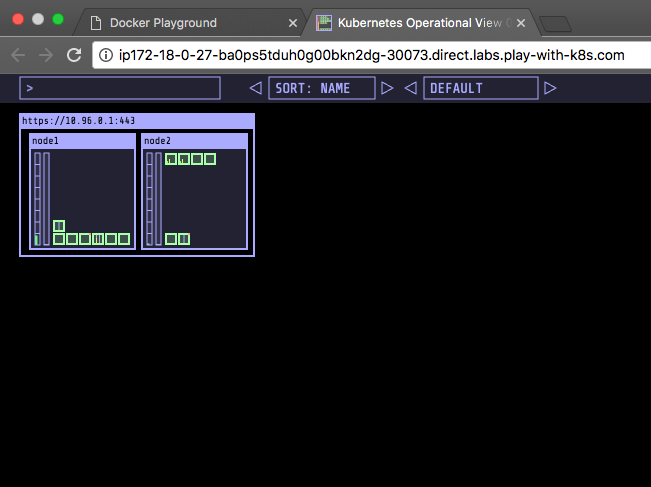
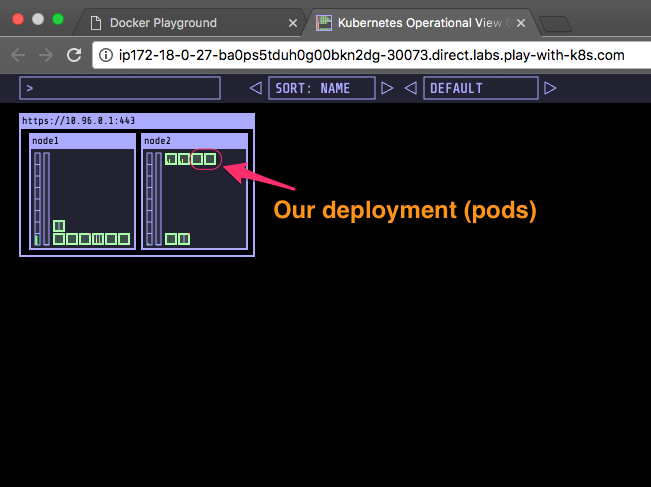
kube-visualizer doc completed

Changed region(s): [[0.3072, 0.3388, 0.8295, 0.462], [0.3072, 0.2772, 0.3379, 0.308], [0.2765, 0.308, 0.3072, 0.3388]]

diff --git a/chapters/kube_visualizer.md b/chapters/kube_visualizer.md
@@ -81,3 +81,5 @@ kubectl apply  -f vote-deploy.yaml
 [output]
 deployment "vote" created
 ```
+
+![kube-visualizer-deployment](images/kube-visualizer-deployment.png)
